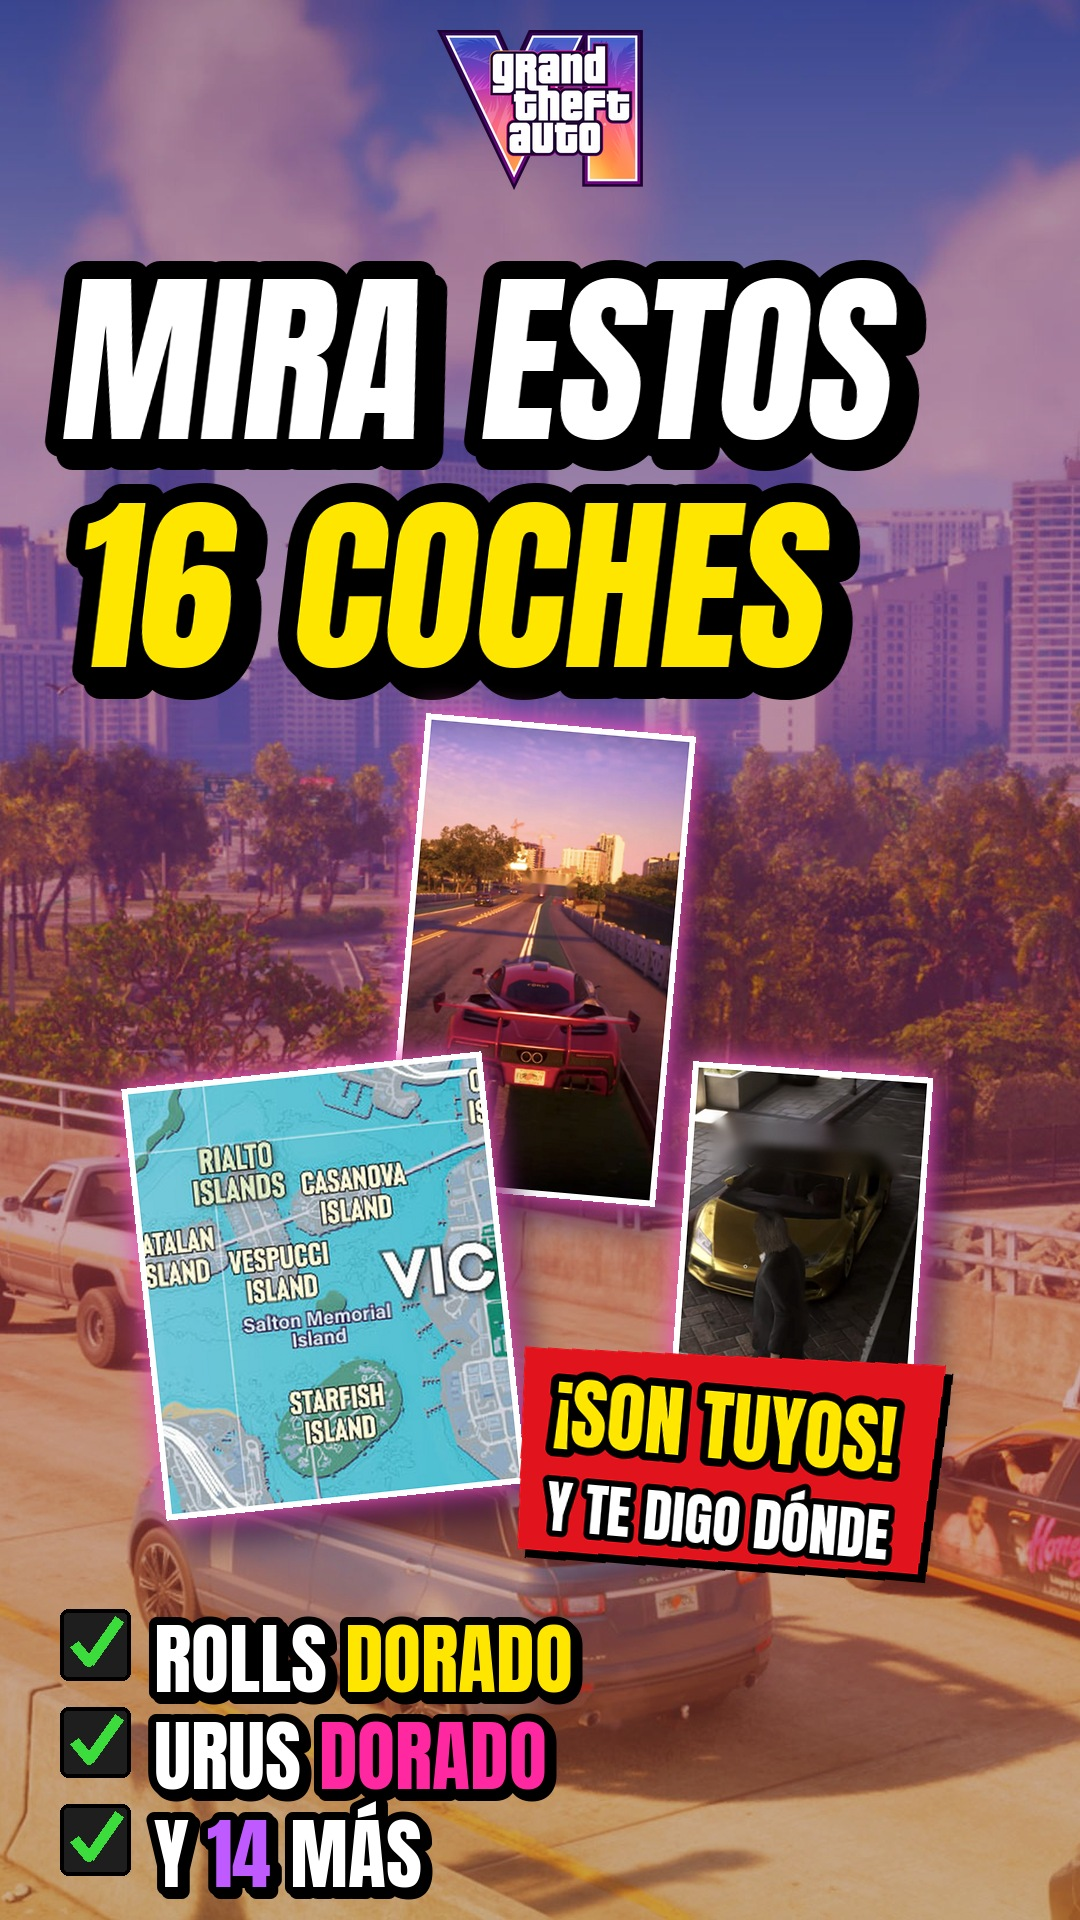
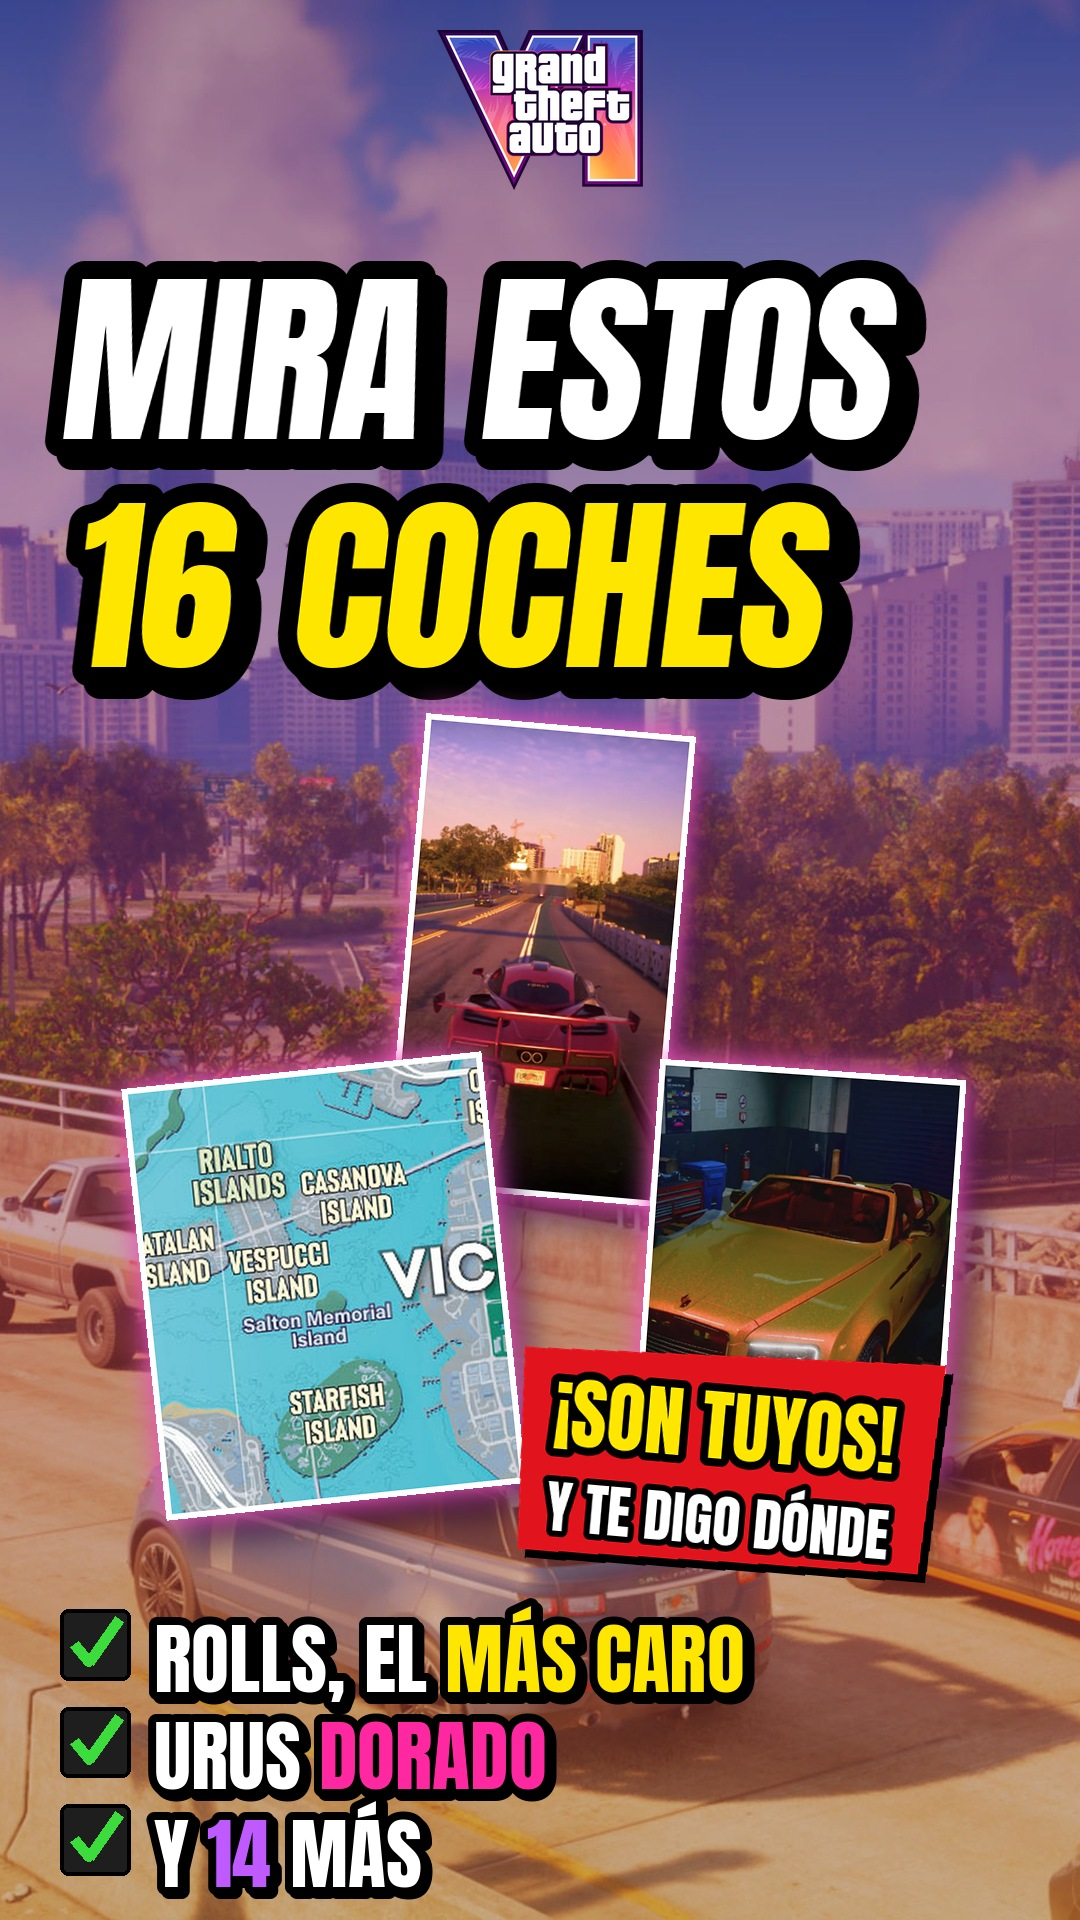
Rolls-Royce dorado: «dicen que es el más caro», contador de 21.855 $ y portada
Claude-Session: https://claude.ai/code/session_013MoWpNiFMbWerhH5TTscuF

Changed region(s): [[0.5806, 0.5312, 0.9167, 0.7812], [0.3056, 0.8125, 0.7028, 0.9062]]

diff --git a/canal/guiones_dinero.py b/canal/guiones_dinero.py
@@ -581,11 +581,13 @@ V("d29-coches-raros", "¡SON TUYOS!",
    B("Este deportivo verde claro, en Stockyard, al norte de Bayside.", ["img:u_rc_verde!", "map:stock"], cortes=["Stockyard"],
      gfx=[dict(t="icono", emoji="💚", titulo="DEPORTIVO VERDE CLARO", sub="Stockyard · al norte de Bayside", y=0.78, desde="deportivo")]),
    B("Y en Stockyard también, en este callejón, dentro del garaje: un Rolls-Royce dorado, el Buckingham Windsor Bourbon.",
-     ["img:u_rc_rolls_calle!", "img:u_rc_rolls3!", "img:u_rc_rolls2!", "img:u_rc_rolls!"], cortes=["garaje", "Rolls", "Buckingham"],
+     ["img:u_rc_rolls_calle!", "img:u_rc_rolls3!", "img:u_rc_rolls2!"], cortes=["garaje", "Rolls"],
      gfx=[dict(t="icono", emoji="👑", titulo="WINDSOR BOURBON", sub="= Rolls-Royce · Stockyard", y=0.2, desde="Rolls")]),
-   B("Abierto, sin alarma y sin localizador. Lo vendes por casi veintidós mil... o lo registras por nueve mil quinientos.", ["bg:"],
-     gfx=[dict(t="pasos", items=["Acceso: abierto", "Alarma: desactivada", "Localizador: ninguno", "Venta: 21.855 $", "Registro: 9.500 $"],
-               en=["Abierto", "alarma", "localizador", "vendes", "registras"])]),
+   B("Dicen que es el coche más caro del juego: te dan casi veintidós mil por venderlo.", ["img:u_rc_rolls!"], riser=True,
+     gfx=[dict(t="contador", hasta=21855, prefijo="", sufijo=" $", sub="si lo vendes", desde="veintidós")]),
+   B("Y está abierto, sin alarma y sin localizador. O lo registras por nueve mil quinientos y es tuyo.", ["bg:"],
+     gfx=[dict(t="pasos", items=["Acceso: abierto", "Alarma: desactivada", "Localizador: ninguno", "Registro: 9.500 $"],
+               en=["abierto", "alarma", "localizador", "registras"])]),
    B("Un muscle car negro y naranja, en la zona industrial de Ambrosia.", ["map:amb"],
      gfx=[dict(t="icono", emoji="🔥", titulo="MUSCLE CAR", sub="negro con dibujos naranjas", y=0.78, desde="muscle")]),
    B("En Starfish Island, uno de leopardo en la entrada de una mansión. Y en su garaje sale uno distinto cada vez.",

diff --git a/canal/portadas_especiales_d29.py b/canal/portadas_especiales_d29.py
@@ -19,7 +19,7 @@ for px, py in ((.773, .487), (.796, .474), (.786, .510)):
     x, y = (px * Image.open(mn._ruta("oficial_extra/Leonida_Map_Poster.jpg")).width - (cx - r)), 0
 d = None
 mn._figura(b, dict(img=m, x=.3, y=.67, h=.22, rot=6, marco=True), W, H)
-mn._figura(b, dict(img="u_lb_huracan.jpg", x=.74, y=.66, h=.2, rot=-4, marco=True), W, H)
+mn._figura(b, dict(img="u_rc_rolls2.jpg", x=.74, y=.66, h=.2, rot=-4, marco=True), W, H)
 mn.sello(b, "¡SON TUYOS!", "Y TE DIGO DÓNDE", W * .68, 1460, 420, rot=-5)
-mn.lista(b, ["ROLLS *DORADO*", "URUS _DORADO_", "Y ~14~ MÁS"], 60, 1600, 78)
+mn.lista(b, ["ROLLS, EL *MÁS* *CARO*", "URUS _DORADO_", "Y ~14~ MÁS"], 60, 1600, 78)
 b.convert("RGB").save(sys.argv[1], quality=93)

diff --git a/FUENTES.md b/FUENTES.md
@@ -194,4 +194,4 @@ Carrusel que pasó el usuario (@dirklandschreiber, «Rockstar Games via @adnaanj
 - Actualización (usuario: «faltan todos los Lamborghini»): se juntan los Lamborghini de las capturas del usuario. Urus dorado = Pegassi Toros en el garaje de Casanova Island (el mismo del carrusel); Huracán dorado = Pegassi Tempesta a los pies de la torre Crimson Palms (Sportskeeda y un post de X); el garaje de la mansión de Starfish Island saca un superdeportivo distinto cada vez (post de X), por eso ahí van el naranja, el «como el Aventador» y el «como el F8». El «EVO» y el «STO»: sin sitio confirmado («en otros garajes de lujo»).
 - Actualización (usuario: «faltan los coches de mis primeras capturas»): se añaden el Emerus rojo de la mansión narco de Vespucci (capturas del usuario, ver «Mansión de Vespucci»; es el mismo Progen Royal Ruby Emerus del carrusel), el Emerus morado de Chatfield Storage (ver «Emerus morado») y el Toros dorado de La Perle (ver «Toros dorado de La Perle»). Total: 15 coches.
 - Actualización: fotos del Emerus morado sacadas del vídeo de @manoliinyt CON su marca de TikTok (solo se quitan los subtítulos); foto del deportivo verde de Stockyard del carrusel con la etiqueta «IMAGEN ILUSTRATIVA» (parece IA).
-- Corrección (vídeo de @wisma_gta6 que pasó el usuario, visto en su ficha y su mapa del juego): el Rolls-Royce dorado es el Buckingham Windsor BOURBON, en un garaje de Stockyard (Vice City). Ficha: acceso abierto, seguridad desactivada, localizador ninguno, valor de venta 21.855 $, registro 9.500 $. (El Windsor Drop de la mansión oeste de Starfish Island es otro coche.) Fotos: dos capturas que pasó el usuario (la del garaje, sin marca).
+- Corrección (vídeo de @wisma_gta6 que pasó el usuario, visto en su ficha y su mapa del juego): el Rolls-Royce dorado es el Buckingham Windsor BOURBON, en un garaje de Stockyard (Vice City). Ficha: acceso abierto, seguridad desactivada, localizador ninguno, valor de venta 21.855 $, registro 9.500 $. (El Windsor Drop de la mansión oeste de Starfish Island es otro coche.) «El más caro del juego»: lo dice el vídeo y lo pide el usuario; no hay lista oficial de precios, por eso se dice «dicen que es el más caro». Fotos: dos capturas que pasó el usuario (la del garaje, sin marca).
